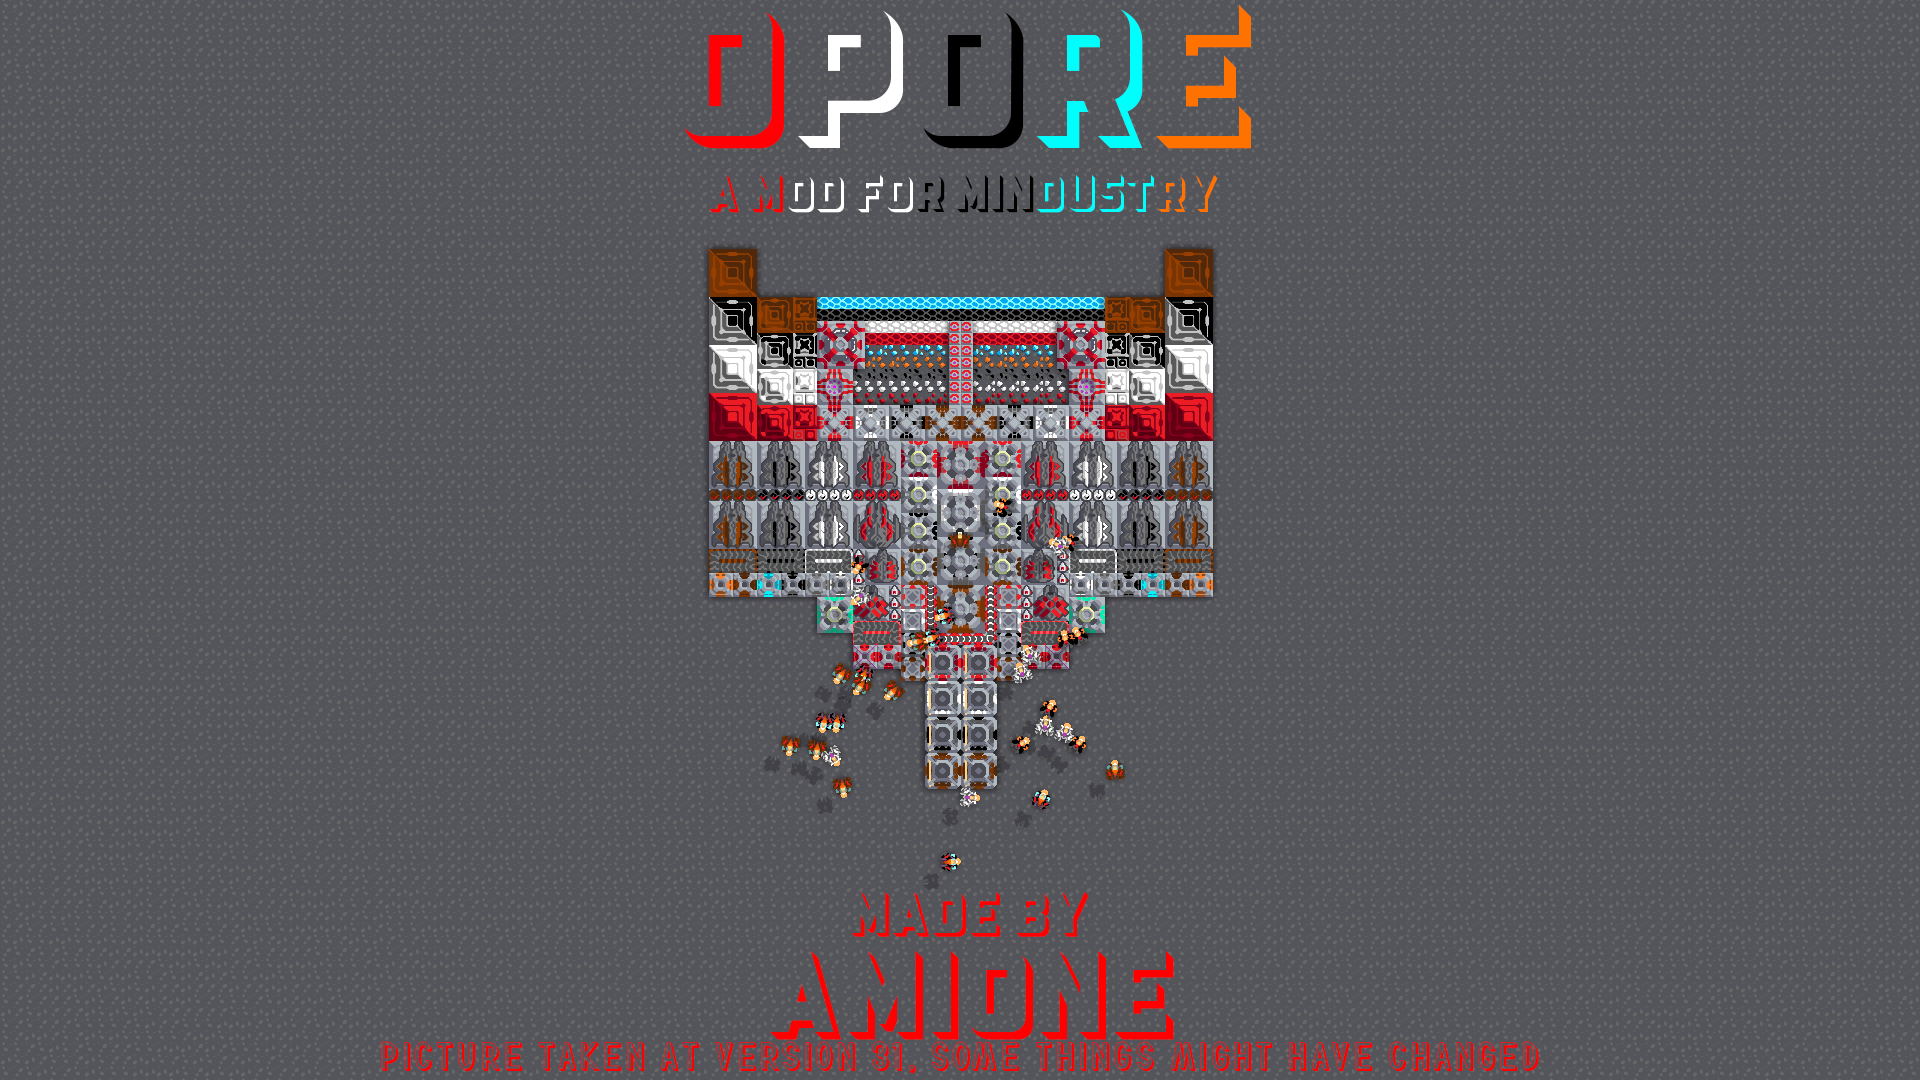
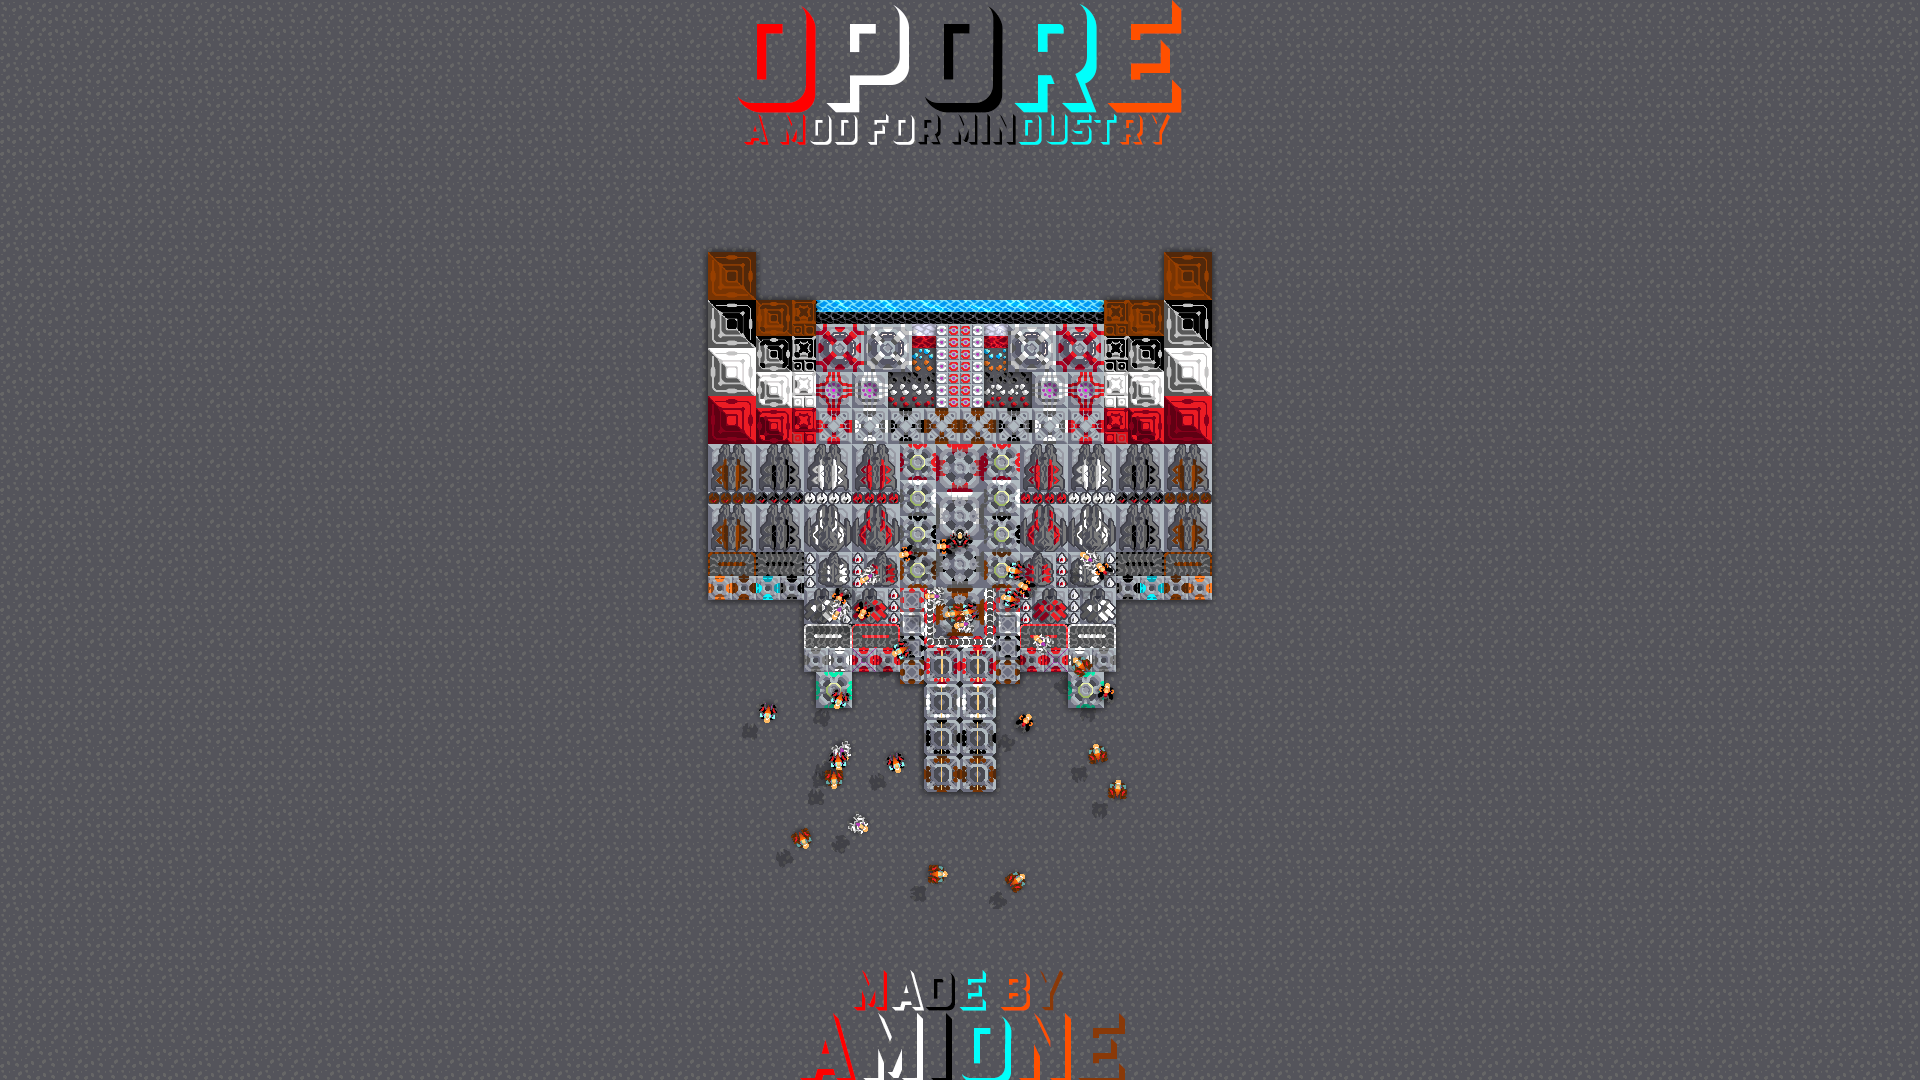
Synced with steam version
check changelogs.txt

Changed region(s): [[0.3438, 0.0, 0.6562, 0.7639], [0.1875, 0.7944, 0.8125, 1.0], [0.4062, 0.7639, 0.4375, 0.7944]]

diff --git a/README.md b/README.md
@@ -2,6 +2,7 @@
 ![](https://github.com/xamionex/Opore-Mod/blob/master/Preview.png)
 ![](https://github.com/xamionex/Opore-Mod/blob/master/Preview2.png)
 ![](https://github.com/xamionex/Opore-Mod/blob/master/Preview3.png)
+![](https://github.com/xamionex/Opore-Mod/blob/master/Preview4.png)
 Adds multiple vaults, drills, duos, spectres, walls, forges, extractors, conveyors, liquids, mech units, mech pads. This is actually my first mod, hope you like it because i had alot of issues while making this. (I will be updating slower because i have a life, sorry but i will still be accepting requests like balancing issues) Special thanks: People from the discord server: Violet#5020, simon#8156, wewemaster#8854, Nope.avi#4037, HNU Founder.lua#5046, omegaDM#0155, Mwister Cinnabar owo#2702, People from the steam community: Tibault, 月之殇, the_red_soul. Everyone that reports a bug/unbalanced item will be added to the special thanks list (if you dont want to be added just say 'dont add me on the special thanks list') NOTE: Update 30+: Some items will be broken because they cannot be done any other way, like an example the arc. It shoots too slow, but it cannot be faster (maybe anuke will fix the way we edit power turrets some day)
 I have uploaded this to the steam workshop and i can indeed update it when i please, 
 i will be updating here but its kind of delayed, 
@@ -9,6 +10,7 @@ if you have the steam version check https://steamcommunity.com/sharedfiles/filed
 because you get automatic updates whenever i update the mod, also its easier for me and its faster too.
 
 # Updates
+* 11 Nov @ 10:51am Update 32: Added missing holy ore blocks (Impact, arc...), Next update is going to be adding void ore missing blocks.
 * 11 Nov @ 12:27am Update 31: Improved Preview.png
 * 10 Nov @ 11:14pm Update 30.9: Made Opore Conduits (requested but there's no point in making this because the speed cant be increased only the capacity can, as far as i know)
 * 10 Nov @ 11:14pm Update 30.8: Made ores be mineable by the last drill (ex. holyore can be mined by opore drill but not from airblast)
